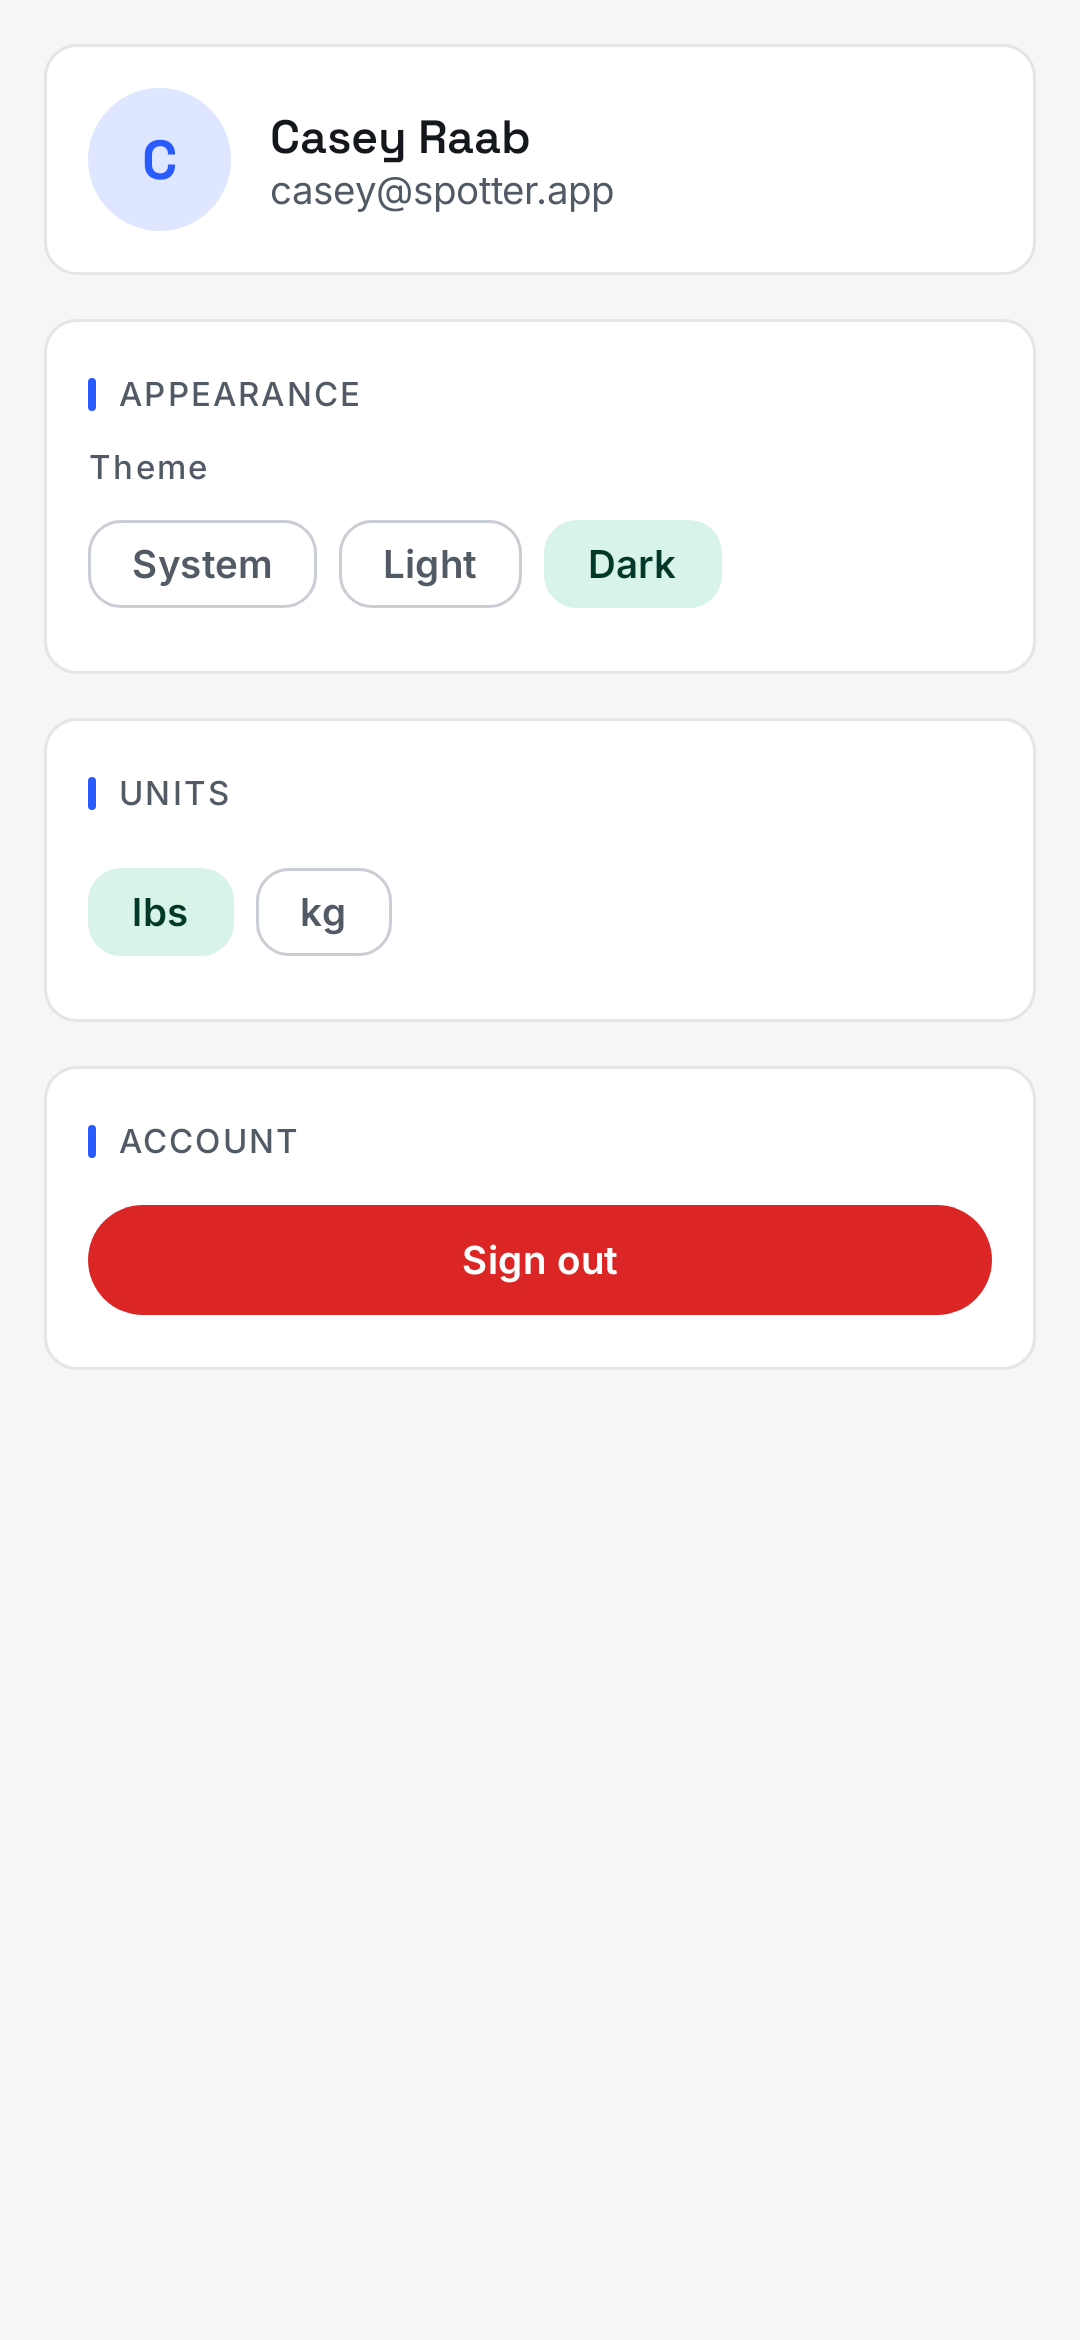
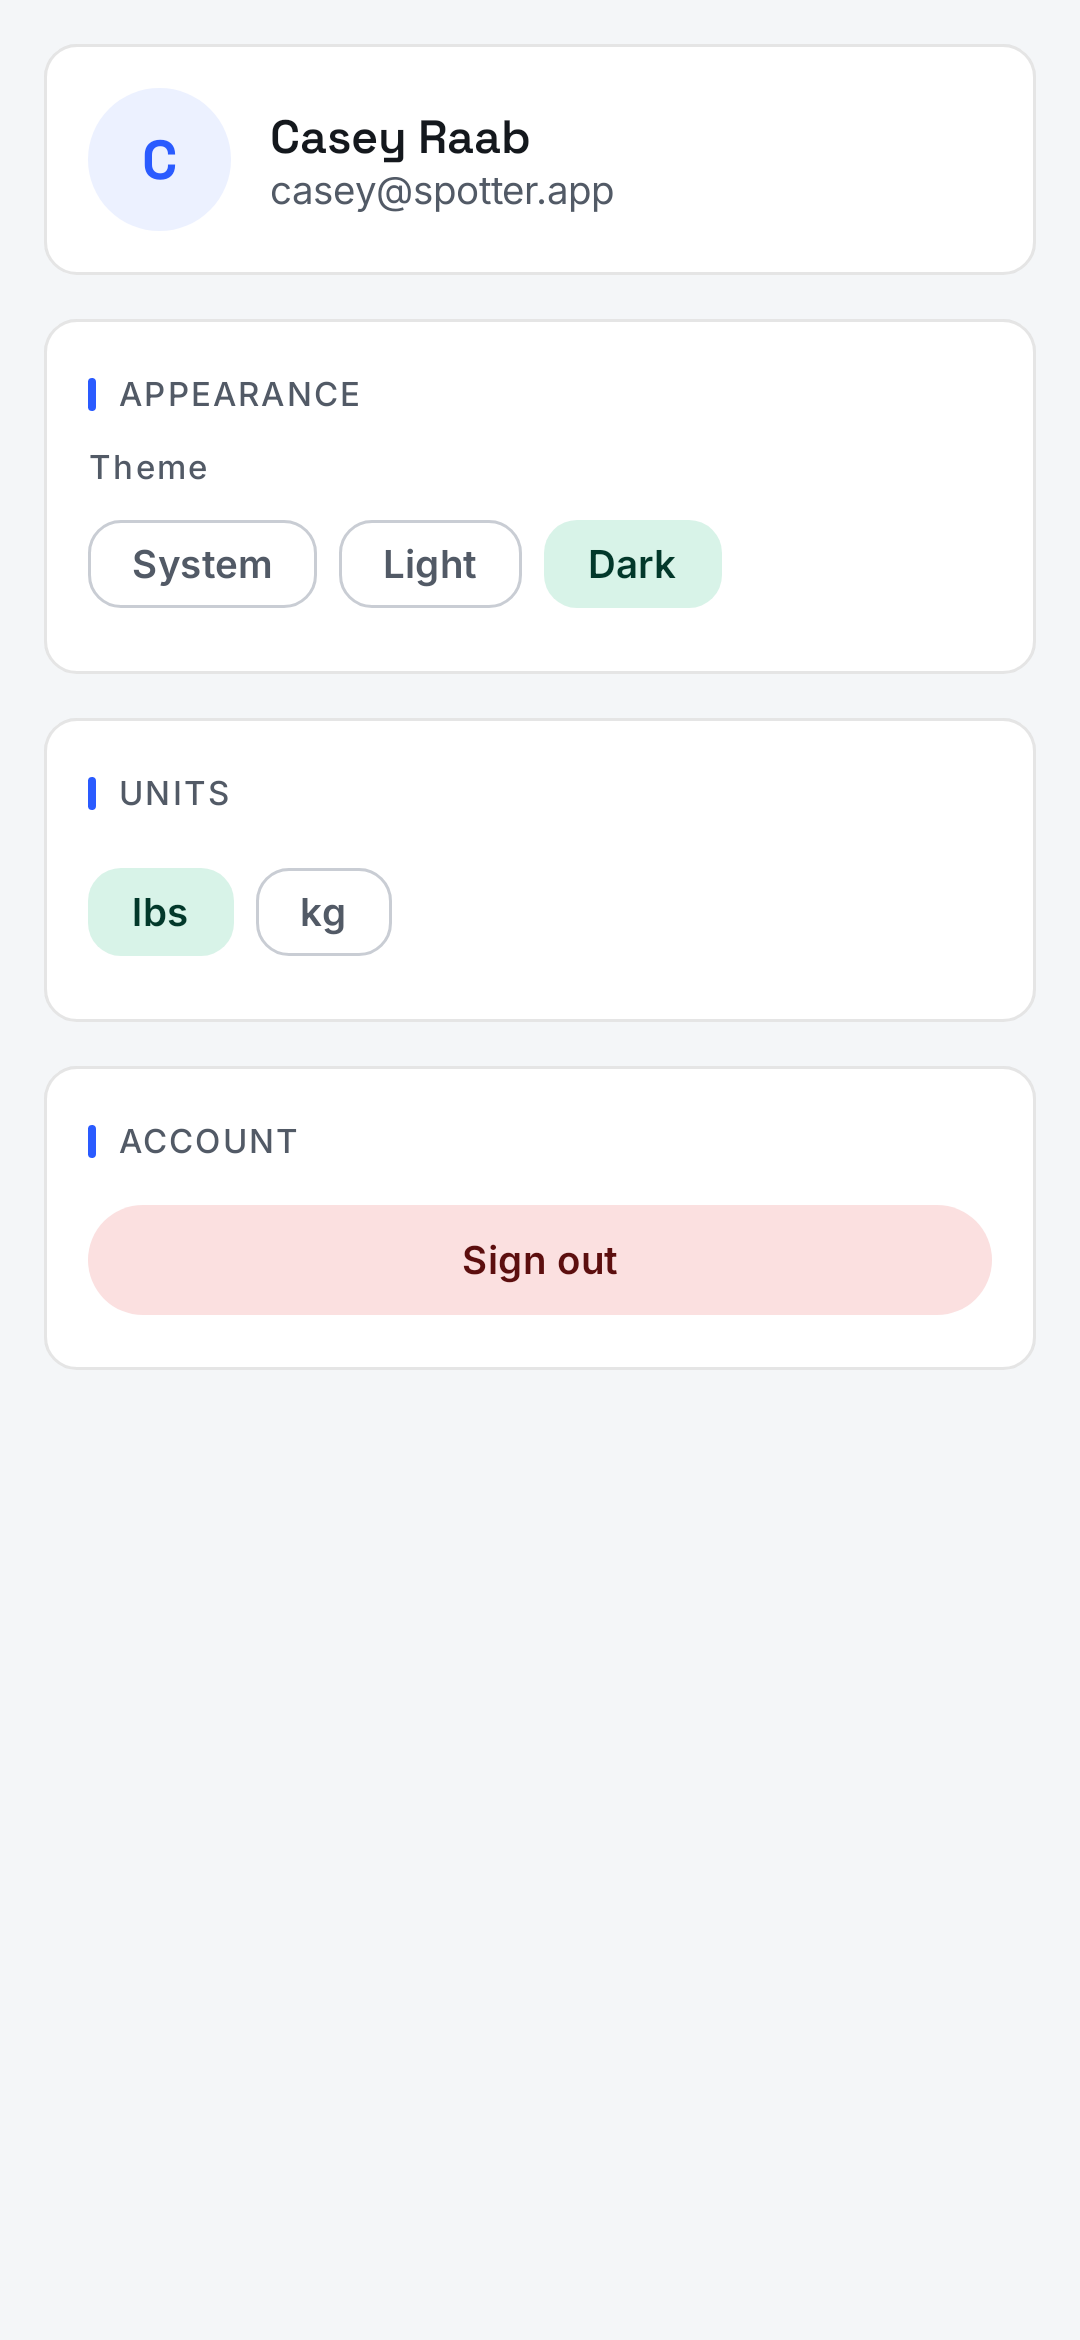
Audit the UI with Sift and fix the gating contrast findings
Wire the Sift design-slop audit into the app and resolve every error-severity
finding so the audit gates green (130 -> 0 across both sister apps).

Wiring (test-only):
- settings.gradle.kts includeBuild("../../Sift"); app testImplementation
  style.sift:sift-compose; SpotterDesignSlopTest reuses the existing screenshot
  scenes (now internal); app/.sift/config.json.

Contrast fixes (WCAG AA), on the shared PULSE tokens so Plate gets them too:
- Hero gradient starts at PulseBlueDeep (white CTA/greeting text 3.7:1 -> 5.2:1);
  the PulseBlue accent token stays light for accent-text-on-dark (5.2:1).
- Darker effortDim pill fills so channel text (e.g. the ACTIVE badge) clears 4.5:1.
- onEnergy: a warm dark ink (dark in BOTH themes) for content on the orange/amber
  energy gradient; white was ~2.1:1, onEnergy is 7.6-8.8:1. Fixes the "Return to
  Home" CTA (onStreak was white in light theme).
- Hero subtitle uses full white (not 0.85 alpha) to clear AA.
- Sign-out scene mirrors the screen's tonal errorContainer treatment (11:1).

Audit config:
- tiny-touch-target downgraded to warn (non-gating): Material3 enforces a 48dp
  touch target via minimumInteractiveComponentSize() that isn't reflected in the
  semantics layout bounds Sift measures.
- Ignore the OutlinedTextField outline false positive (Sift samples the gray
  outline, not the dark value glyphs).

Verified: :app:testDebugUnitTest (incl. *DesignSlopTest, 0 errors) green;
screenshots re-recorded.
[…]

Changed region(s): [[0.0611, 0.4991, 0.9167, 0.5615]]

diff --git a/android/app/src/test/java/com/spotter/screenshot/ScreenshotTest.kt b/android/app/src/test/java/com/spotter/screenshot/ScreenshotTest.kt
@@ -130,7 +130,7 @@ class ScreenshotTest {
 }
 
 @Composable
-private fun HomeScene() {
+internal fun HomeScene() {
     val pulse = SpotterTheme.pulse
     Column(
         Modifier
@@ -151,7 +151,7 @@ private fun HomeScene() {
             Text(
                 "Next up: Push Day · Today",
                 style = MaterialTheme.typography.bodyMedium,
-                color = Color.White.copy(alpha = 0.85f),
+                color = Color.White,
             )
         }
         Row(Modifier.fillMaxWidth(), horizontalArrangement = Arrangement.spacedBy(8.dp)) {
@@ -200,7 +200,7 @@ private fun HomeScene() {
 }
 
 @Composable
-private fun SummaryScene(prCount: Int = 0, perfect: Boolean = true) {
+internal fun SummaryScene(prCount: Int = 0, perfect: Boolean = true) {
     val pulse = SpotterTheme.pulse
     Column(
         Modifier
@@ -273,6 +273,7 @@ private fun SummaryScene(prCount: Int = 0, perfect: Boolean = true) {
         PulseButton(
             text = "Return to Home",
             gradient = pulse.energyGradient,
+            onChannel = pulse.onEnergy,
             onClick = {},
             modifier = Modifier.fillMaxWidth().padding(horizontal = 16.dp),
         )
@@ -296,7 +297,7 @@ private fun SummaryStat(modifier: Modifier, value: String, label: String) {
 }
 
 @Composable
-private fun WorkoutScene() {
+internal fun WorkoutScene() {
     val pulse = SpotterTheme.pulse
     fun set(n: Int, reps: Int, w: Double?, done: Boolean) = SetLogOut(
         id = "s$n", sessionId = "x", exerciseId = "e", setNumber = n,
@@ -364,7 +365,7 @@ private fun WorkoutScene() {
 }
 
 @Composable
-private fun StatesScene() {
+internal fun StatesScene() {
     EmptyState(
         icon = Icons.AutoMirrored.Filled.Chat,
         title = "Meet your AI Coach",
@@ -374,7 +375,7 @@ private fun StatesScene() {
 }
 
 @Composable
-private fun ProgressScene() {
+internal fun ProgressScene() {
     val pulse = SpotterTheme.pulse
     // Renders the genuine LineChart component (internal) with sample data.
     val points = listOf(135f, 140f, 138f, 145f, 150f, 148f, 155f, 160f)
@@ -411,7 +412,7 @@ private fun ProgressScene() {
 }
 
 @Composable
-private fun LoginScene() {
+internal fun LoginScene() {
     var email by remember { mutableStateOf("casey@spotter.app") }
     var password by remember { mutableStateOf("••••••••") }
     Column(
@@ -441,7 +442,7 @@ private fun LoginScene() {
 }
 
 @Composable
-private fun OnboardingScene() {
+internal fun OnboardingScene() {
     val pulse = SpotterTheme.pulse
     Column(
         Modifier.fillMaxSize().padding(24.dp),
@@ -486,7 +487,7 @@ private fun OptionCardPreview(label: String, selected: Boolean) {
 
 /** The coach's live-workout adjustment card (Apply + future-workouts toggle). */
 @Composable
-private fun CoachAdjustmentScene() {
+internal fun CoachAdjustmentScene() {
     val pulse = SpotterTheme.pulse
     var applyToRoutine by remember { mutableStateOf(true) }
     Column(Modifier.fillMaxSize().padding(16.dp), verticalArrangement = Arrangement.spacedBy(8.dp)) {
@@ -531,7 +532,7 @@ private fun CoachAdjustmentScene() {
 
 /** The app shell: in-progress session strip stacked over the bottom navigation bar. */
 @Composable
-private fun ShellScene() {
+internal fun ShellScene() {
     Column(Modifier.fillMaxSize(), verticalArrangement = Arrangement.Bottom) {
         ActiveSessionBar(
             ui = ActiveBarUi.Workout(
@@ -586,7 +587,7 @@ private fun IconMask(shape: androidx.compose.ui.graphics.Shape, size: androidx.c
 }
 
 @Composable
-private fun SettingsScene() {
+internal fun SettingsScene() {
     val pulse = SpotterTheme.pulse
     Column(
         Modifier.fillMaxSize().verticalScroll(rememberScrollState()).padding(16.dp),
@@ -628,17 +629,23 @@ private fun SettingsScene() {
         PanelCard(Modifier.fillMaxWidth()) {
             SectionHeader("Account")
             Spacer(Modifier.height(8.dp))
+            // Tonal error treatment (mirrors the real SettingsScreen): white on the saturated error
+            // red is only ~3:1; errorContainer/onErrorContainer is legible (11:1) and still reads
+            // as destructive.
             Button(
                 onClick = {},
                 modifier = Modifier.fillMaxWidth(),
-                colors = ButtonDefaults.buttonColors(containerColor = MaterialTheme.colorScheme.error),
+                colors = ButtonDefaults.buttonColors(
+                    containerColor = MaterialTheme.colorScheme.errorContainer,
+                    contentColor = MaterialTheme.colorScheme.onErrorContainer,
+                ),
             ) { Text("Sign out") }
         }
     }
 }
 
 @Composable
-private fun CalendarScene() {
+internal fun CalendarScene() {
     val pulse = SpotterTheme.pulse
     Column(Modifier.fillMaxSize().padding(16.dp), verticalArrangement = Arrangement.spacedBy(12.dp)) {
         SectionHeader("June 2026")

diff --git a/android/app/src/test/java/com/spotter/screenshot/DesignSlopTest.kt b/android/app/src/test/java/com/spotter/screenshot/DesignSlopTest.kt
@@ -1,0 +1,56 @@
+package com.spotter.screenshot
+
+import androidx.compose.foundation.layout.fillMaxSize
+import androidx.compose.material3.MaterialTheme
+import androidx.compose.material3.Surface
+import androidx.compose.runtime.Composable
+import androidx.compose.ui.Modifier
+import com.spotter.ui.theme.SpotterTheme
+import style.sift.compose.DesignSlopSuite
+import style.sift.compose.TokenScan
+import style.sift.core.config.SiftConfig
+import java.io.File
+
+/**
+ * Sift design-slop audit for Spotter (CLAUDE.md §7 of the Sift repo). Reuses the exact scene
+ * helpers the Roborazzi [ScreenshotTest] renders — same PULSE components, same sample data — so the
+ * audit and the screenshots never drift. The inherited `audit()` renders each scene on Robolectric
+ * NATIVE graphics, runs the rule catalog, writes `build/sift/report.json`, and fails on any
+ * error-severity finding (low-contrast-text / tiny-touch-target).
+ *
+ * Tokens are scanned from Spotter's theme package so the palette/font rules see the real design
+ * intent. Config is read from `.sift/config.json` (module-relative), falling back to defaults.
+ */
+class SpotterDesignSlopTest : DesignSlopSuite(
+    config = SiftConfig.fromFileOrDefault(),
+    tokens = TokenScan.scan(listOf(File("src/main/java/com/spotter/ui/theme"))),
+) {
+    init {
+        register("home") { HomeScene() }
+        register("summary") { SummaryScene(prCount = 2, perfect = true) }
+        register("workout") { WorkoutScene() }
+        register("states") { StatesScene() }
+        register("progress") { ProgressScene() }
+        register("login") { LoginScene() }
+        register("onboarding") { OnboardingScene() }
+        register("coach_adjustment") { CoachAdjustmentScene() }
+        register("settings") { SettingsScene() }
+        register("calendar") { CalendarScene() }
+        register("shell") { ShellScene() }
+    }
+
+    /** Register a scene in both dark and light, themed + backed by a themed Surface like MainActivity. */
+    private fun register(name: String, content: @Composable () -> Unit) {
+        scene(name, dark = true) { Themed(dark = true, content) }
+        scene(name, dark = false) { Themed(dark = false, content) }
+    }
+}
+
+@Composable
+private fun Themed(dark: Boolean, content: @Composable () -> Unit) {
+    SpotterTheme(darkTheme = dark) {
+        Surface(modifier = Modifier.fillMaxSize(), color = MaterialTheme.colorScheme.background) {
+            content()
+        }
+    }
+}

diff --git a/android/app/src/main/java/com/spotter/ui/theme/Pulse.kt b/android/app/src/main/java/com/spotter/ui/theme/Pulse.kt
@@ -46,10 +46,13 @@ data class PulseColors(
     // Brand gradients
     val heroGradient: Brush,    // blue → indigo: greeting, primary CTAs
     val energyGradient: Brush,  // orange → amber: streak/celebration moments
+    // Content color for text/icons ON the energy gradient. Dark in BOTH themes (the gradient is
+    // light orange/amber in both): white on it is only ~2.1:1, this warm ink is 7.6–8.8:1.
+    val onEnergy: Color,
 )
 
 fun darkPulseColors() = PulseColors(
-    effort = PulseBlue, effortDim = Color(0xFF1B2440), onEffort = Color(0xFFFFFFFF),
+    effort = PulseBlue, effortDim = Color(0xFF151C33), onEffort = Color(0xFFFFFFFF),
     strength = PulseViolet, strengthDim = Color(0xFF231F3F), onStrength = Color(0xFF120A38),
     streak = PulseOrange, streakDim = Color(0xFF3B2418), onStreak = Color(0xFF2B1100),
     recovery = PulseGreen, recoveryDim = Color(0xFF11332A), onRecovery = Color(0xFF00301F),
@@ -58,12 +61,16 @@ fun darkPulseColors() = PulseColors(
     panel = PulsePanel,
     panelHigh = PulsePanelHigh,
     glow = PulseBlue,
-    heroGradient = Brush.linearGradient(listOf(PulseBlue, PulseIndigo)),
+    // Hero gradient starts at PulseBlueDeep (not PulseBlue): white CTA/greeting text needs >= 4.5:1
+    // and white-on-PulseBlue is only 3.72:1, while white-on-PulseBlueDeep is 5.20:1. PulseBlue stays
+    // the accent-text token (kept light for 5.23:1 on dark surfaces).
+    heroGradient = Brush.linearGradient(listOf(PulseBlueDeep, PulseIndigo)),
     energyGradient = Brush.linearGradient(listOf(PulseOrange, PulseAmber)),
+    onEnergy = Color(0xFF2B1100),
 )
 
 fun lightPulseColors() = PulseColors(
-    effort = PulseBlueDeep, effortDim = Color(0xFFDEE7FF), onEffort = Color(0xFFFFFFFF),
+    effort = PulseBlueDeep, effortDim = Color(0xFFECF1FF), onEffort = Color(0xFFFFFFFF),
     strength = PulseVioletDeep, strengthDim = Color(0xFFE6E2FB), onStrength = Color(0xFFFFFFFF),
     streak = PulseOrangeDeep, streakDim = Color(0xFFFBE3D4), onStreak = Color(0xFFFFFFFF),
     recovery = PulseGreenDeep, recoveryDim = Color(0xFFD8F3E8), onRecovery = Color(0xFFFFFFFF),
@@ -74,6 +81,7 @@ fun lightPulseColors() = PulseColors(
     glow = PulseBlueDeep,
     heroGradient = Brush.linearGradient(listOf(PulseBlueDeep, PulseIndigoDeep)),
     energyGradient = Brush.linearGradient(listOf(Color(0xFFFF6B35), PulseAmber)),
+    onEnergy = Color(0xFF2B1100),
 )
 
 val LocalPulse = staticCompositionLocalOf { darkPulseColors() }

diff --git a/android/app/src/main/java/com/spotter/ui/settings/SettingsScreen.kt b/android/app/src/main/java/com/spotter/ui/settings/SettingsScreen.kt
@@ -301,8 +301,12 @@ fun SettingsScreen(
                 Button(
                     onClick = { viewModel.logout() },
                     modifier = Modifier.fillMaxWidth(),
+                    // Tonal error treatment: white on the saturated error red is only ~3:1; the
+                    // errorContainer/onErrorContainer pair is legible (11:1) and still reads as a
+                    // destructive action.
                     colors = ButtonDefaults.buttonColors(
-                        containerColor = MaterialTheme.colorScheme.error,
+                        containerColor = MaterialTheme.colorScheme.errorContainer,
+                        contentColor = MaterialTheme.colorScheme.onErrorContainer,
                     ),
                 ) {
                     Text("Sign out")

diff --git a/android/app/src/main/java/com/spotter/ui/workout/WorkoutSummaryScreen.kt b/android/app/src/main/java/com/spotter/ui/workout/WorkoutSummaryScreen.kt
@@ -246,6 +246,9 @@ fun WorkoutSummaryScreen(
             PulseButton(
                 text = "Return to Home",
                 gradient = pulse.energyGradient,
+                // White on the orange/amber energy gradient is only ~2.1:1; onEnergy is a warm dark
+                // ink (dark in BOTH themes — onStreak is white in light) that clears AA (7.6-8.8:1).
+                onChannel = pulse.onEnergy,
                 onClick = {
                     navController.navigate(Screen.Home.route) {
                         popUpTo(Screen.Home.route) { inclusive = true }

diff --git a/android/app/src/main/java/com/spotter/ui/home/HomeScreen.kt b/android/app/src/main/java/com/spotter/ui/home/HomeScreen.kt
@@ -303,7 +303,8 @@ private fun GreetingPanel(greeting: String, nextWorkout: UpcomingWorkout?) {
         Text(
             text = status,
             style = MaterialTheme.typography.bodyMedium,
-            color = Color.White.copy(alpha = 0.85f),
+            // Full white (not 0.85 alpha) so the subtitle clears AA on the hero gradient.
+            color = Color.White,
         )
     }
 }
